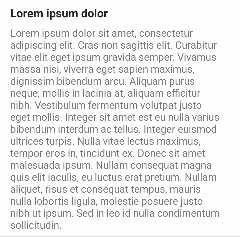
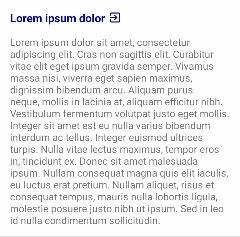
add links to source

Changed region(s): [[0.0292, 0.0295, 0.9625, 0.9747]]

diff --git a/app/src/main/java/com/crane/mockappdemo/main/MainAdapter.kt b/app/src/main/java/com/crane/mockappdemo/main/MainAdapter.kt
@@ -2,6 +2,7 @@ package com.crane.mockappdemo.main
 
 import android.content.Context
 import android.content.Intent
+import android.net.Uri
 import android.view.View
 import android.view.ViewGroup
 import android.widget.TextView
@@ -20,6 +21,10 @@ class MainAdapter(
 
         @MockAppView
         lateinit var name: TextView
+
+        @MockAppView
+        lateinit var viewSource: View
+
         @MockAppView
         lateinit var description: TextView
 
@@ -30,6 +35,17 @@ class MainAdapter(
                     return@setOnClickListener
                 val item = items[pos]
                 context.startActivity(Intent(context, item.activity))
+            }
+
+            viewSource.setOnClickListener {
+                val pos = adapterPosition
+                if (pos == RecyclerView.NO_POSITION)
+                    return@setOnClickListener
+                val item = items[pos]
+                val url =
+                    "https://github.com/alzhuravlev/MockAppDemo/blob/master/app/src/main/java/com/crane/mockappdemo/sample1/${item.activity.simpleName}.kt"
+                val intent = Intent(Intent.ACTION_VIEW, Uri.parse(url))
+                context.startActivity(intent)
             }
         }
 
